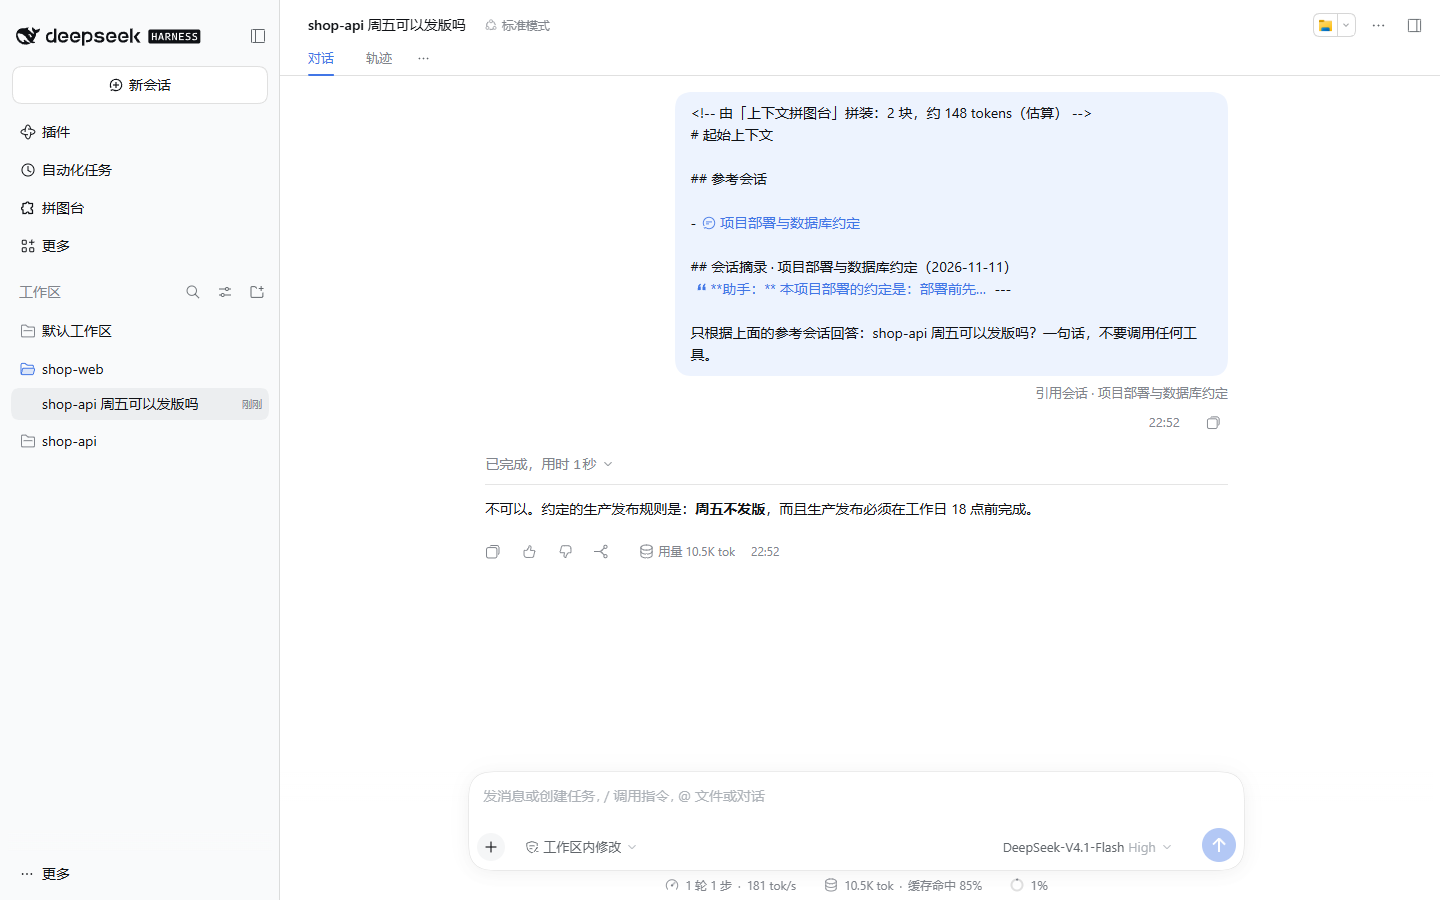
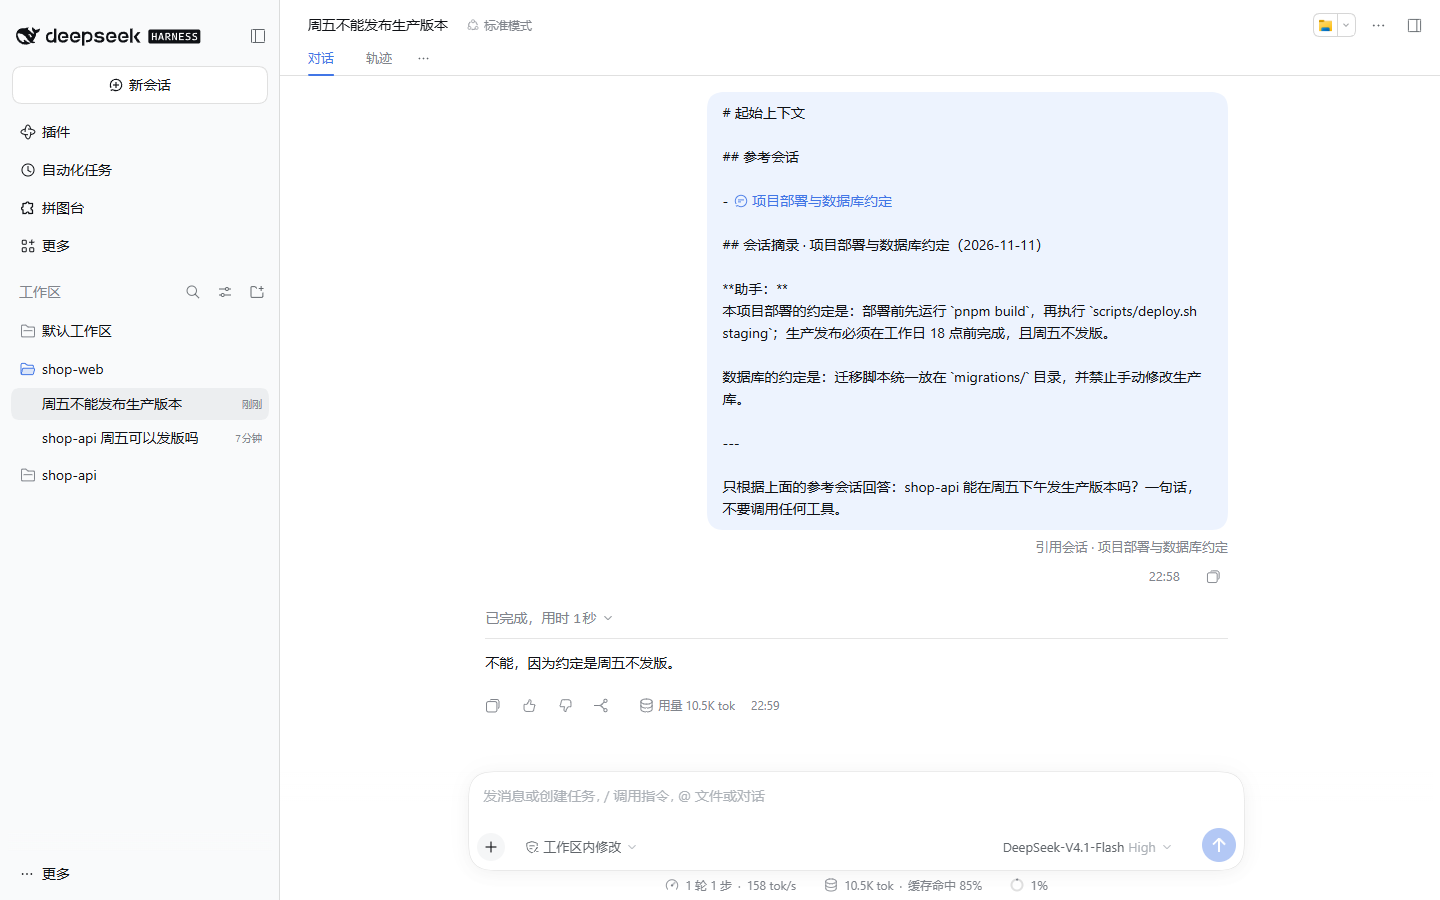
docs: 重拍会话引用截图（新格式：无注释头、摘录不折叠）

diff --git a/README.md b/README.md
@@ -119,7 +119,7 @@ dsh plugin --profile web add ./dsh-plugin-context-studio
 
 3. **复制**：复制到剪贴板，你自己去用。
 
-拼盘里的 `@会话` 是 DSH 原生的会话引用。发送后，DSH 会把它渲染成会话芯片，并把那个会话的有界快照一起交给模型。下面这个例子：在 shop-web 里问「shop-api 周五可以发版吗」，模型根据引用的 shop-api 会话回答「不可以」。
+拼盘里的 `@会话` 是 DSH 原生的会话引用。发送后，DSH 会把它渲染成会话芯片，并把那个会话的有界快照一起交给模型。下面这个例子：在 shop-web 里问「shop-api 能在周五下午发生产版本吗」，模型根据引用的 shop-api 会话回答「不能，因为约定是周五不发版」。
 
 <img src="docs/images/session-reference.png" alt="shop-web 的会话：用户消息里有会话引用芯片和一段助手摘录，下方注明「引用会话 · 项目部署与数据库约定」，模型回答周五不发版" width="100%">
 
